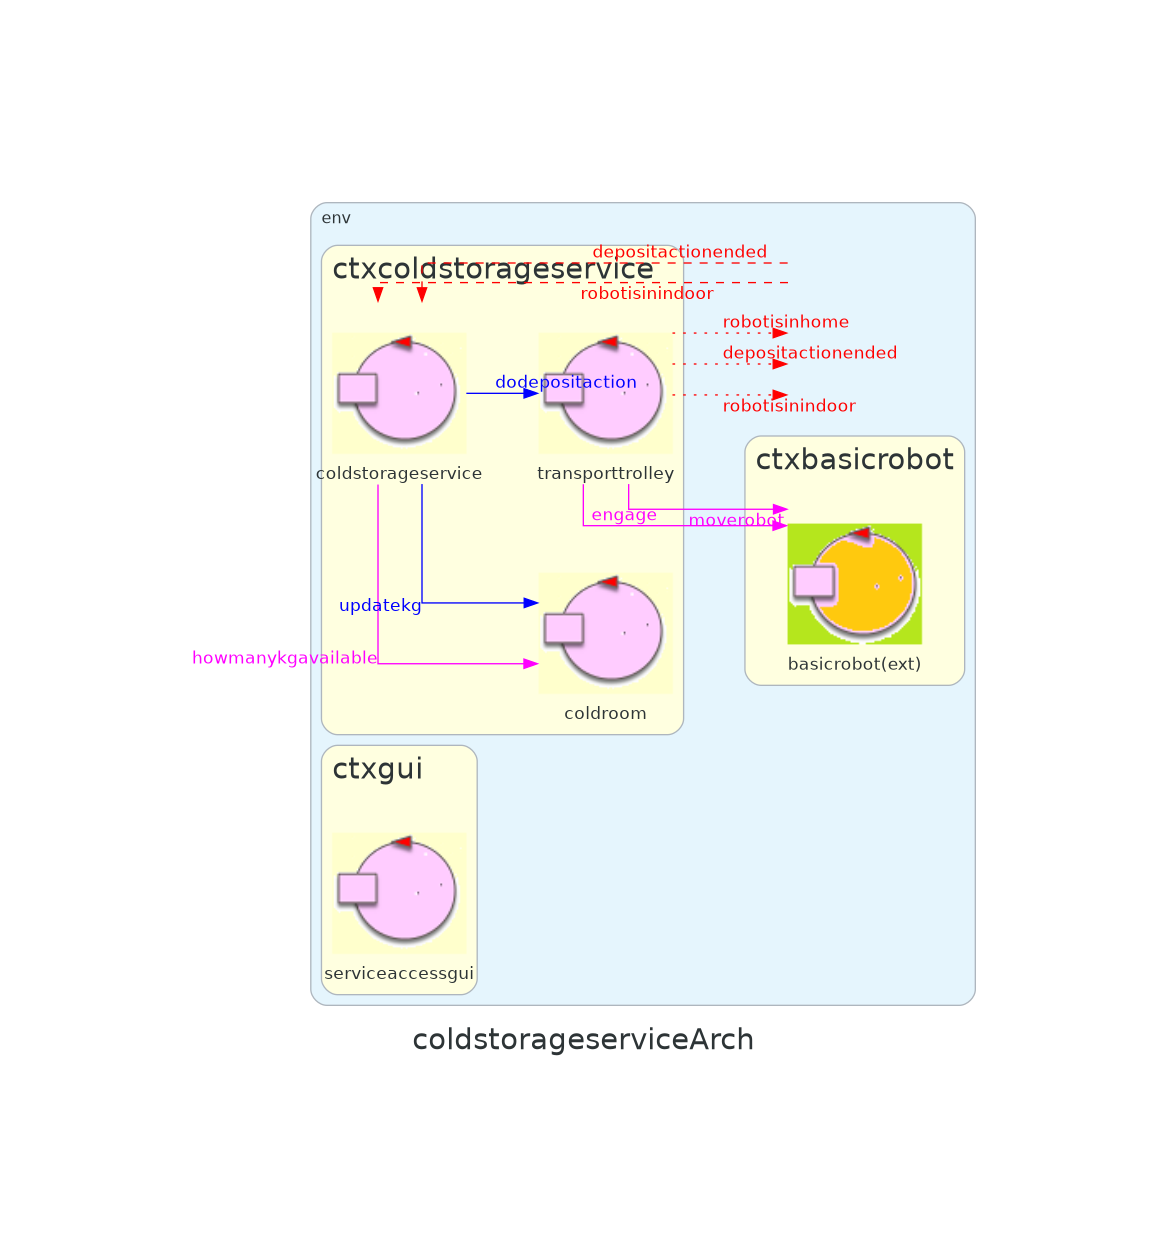
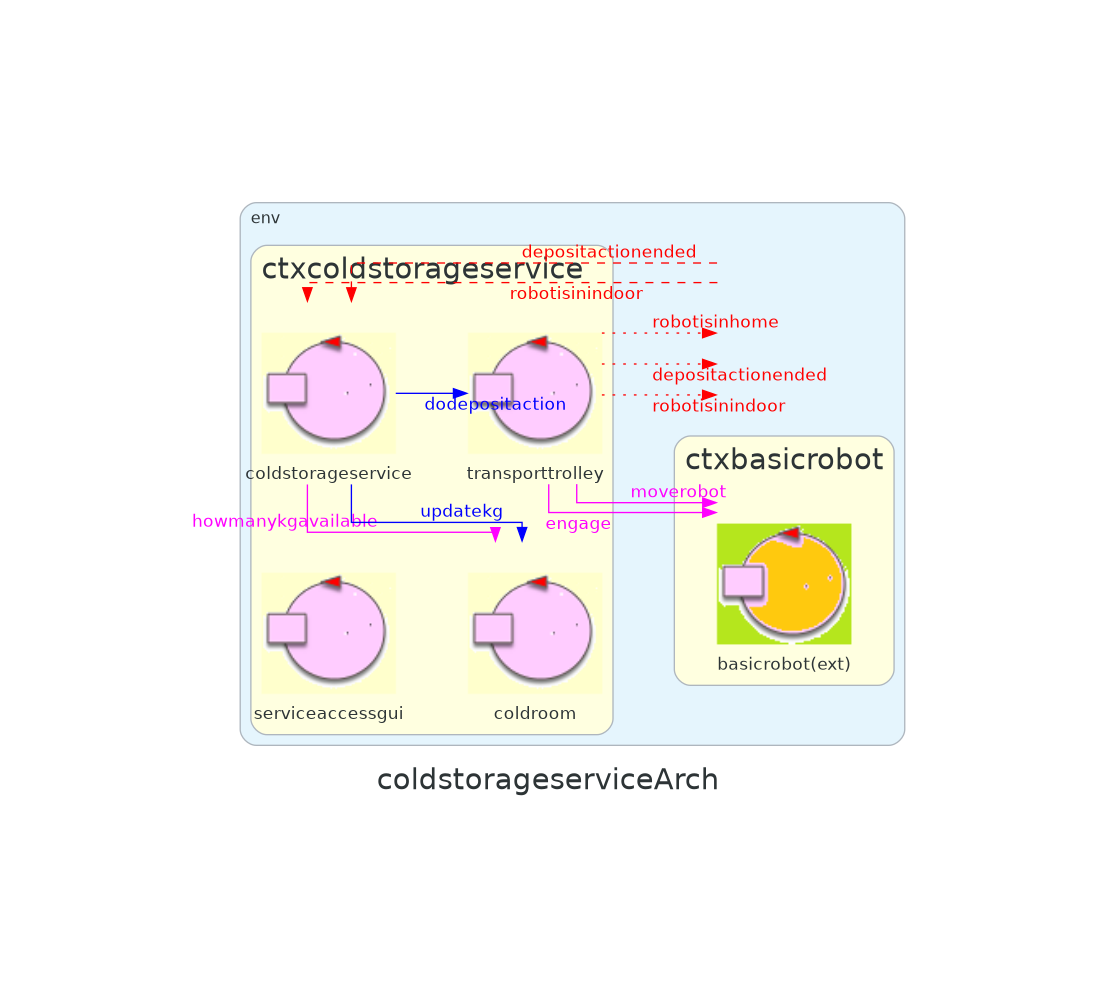
added sprint2V0

Changed region(s): [[0.155, 0.1559, 0.8368, 0.8421]]

diff --git a/userDocs/ColdStorageSprint2V0.md b/userDocs/ColdStorageSprint2V0.md
@@ -1,11 +1,11 @@
 
 ## Introduzione
 ### Goal conseguiti nello sprint1
-- prototipazione del core business ColdStorageService + TransportTrolley
+- sviluppo del core business ColdStorageService + TransportTrolley
 ### architettura logica sprint1
 ![[coldstorageservicearch-progettazione-sprint1.png]]
 ### Goal dello sprint2
-- introduzione della la GUI nel sistema ottenuto nello sprint1 e testing
+- introduzione della  GUI nel sistema ottenuto nello sprint1 e testing
 **Si noti che lo sviluppo del progetto dello sprint2 è da intendersi come estensione del progetto dello sprint1**
 
 ## Requirements
@@ -17,67 +17,75 @@ a ServiceAccessGUI that allows an human being to see the current weight of the m
 - When the service accepts a ticket, the transport trolley reaches the INDOOR, picks up the food, sends the charge taken message and then goes to the ColdRoom to store the food.
 - When the deposit action is terminated, the transport trolley accepts another ticket (if any) or returns to HOME.
 
+
+
 ## Requirements analysis
 
 - Per **current weight** si intende il numero di kg contenuti nella ColdRoom effettivi. Viene quindi formalizzato con un numero intero positivo.
 - Dal punto 1 della service user story, si evince che ci sarà un campo in input dove l'utente può inserire il numero di kg FW per richiedere il ticket.
-- Una volta che l'utente ha inserito il ticket number, non deve essere possibile per lui inserire un altro ticket prima che otttenga alcuna risposta dalla ServiceAccessGui
-- Deve essere possibile per l'utente poter richiedere più ticket anche se ha inserito il ticketruck driver mandando il camion con un altro ticket. Infatti, il camionista ddeve prima guidare il camion fino a indoor e poi può inserire il ticket number nella ServiceAccessGui e non potrebbe fisicamente guidare due camion in contemporanea.
+- Una volta che l'utente ha inserito il ticket number, non deve essere possibile per lui inserire un altro ticket prima che ottenga alcuna risposta dalla ServiceAccessGui
+- In qualunque momento deve essere possibile richiedere ticket.
 
 Dal precedente sprint si ricorda che:
-- Non deve succedere che un camion, ricevuto il proprio ticket si veda rifiutata l'operazione di scarico una volta arrivato in INDOOR.
+- Non deve succedere che un camion, ricevuto il proprio ticket si veda rifiutata l'operazione di scarico una volta arrivato in INDOOR a patto che il ticket non sia scaduto.
 - la richiesta di un ticket può avvenire mentre sono ancora in corso operazioni di scarico precedenti
-
-
-### Ticket
- Il ticket è stato formalizzato nello sprint1 secondo la seguente struttura
- ```java
-private String ticketSecret;  
-private long timestamp;  
-private int kgToStore;    
-``` 
  
-
-
 ## Problem Analysis
+
+### comunicazione con il sistema 
+da requisiti si prevede la comunicazione tramite i seguenti messaggi:
+- Request storefood : storefood( KG )
+- Reply ticketaccepted : ticketaccepted( TICKETCODE, TICKETSECRET, TIMESTAMP ) 
+- Reply ticketdenied : ticketdenied( ARG ) 
+
+- Request sendticket: sendticket(TICKETCODE, TICKETSECRET)
+- Reply chargetaken : chargetaken(ARG)
+- Reply ticketexpired: ticketexpired(ARG)
+- Reply ticketrejected: ticketrejected(ARG)
+
+### Il problema della disponibilità della GUI
+da requisiti si evince che la gui deve essere sempre disponibile ad accettare richieste, le comunicazioni intraprese devono essere di natura **NON BLOCCANTE**
+
+### Trasparenza della gui
+per il principio di clean architecture la GUI deve operare in maniera trasparente al sistema 
+
+### L'attore service ACCESSGUI
+come introdotto nella architettura dello sprint0 si aggiunge al sistema un attore in grado di comunicare con coldstorageservice.
+
+#### La scelta del contesto
+data l'assenza di particolari requisiti che richiedano di inserire la serviceaccessgui in un contesto diverso si decide di inserirla nello stesso contesto del sistema
 
 
 ## Architettura logica dopo analisi del problema
-Il sistema è composto da:
-  - *ColdStorageService*: prende in carico richieste di generazione ticket e richieste di invio di un camion; si interfaccia con la ColdRoom per saperne lo stato; fa partire le deposit action;
-  - *Transport Trolley*: invia al Basic Robot la sequenza di comandi necessari per effettuare una deposit action
-  - *Basic Robot*: esegue i comandi del Transport Trolley
-  - *ServiceAccessGui*: si interfaccia con ColdStorageService per la richiesa di ticket
-  - *Cold Room*: aggiorna lo stato della quantità di kg
+Al sistema precedente si aggiunge un attore  *ServiceAccessGui* che si interfaccia con ColdStorageService per la richiesa di ticket
 
-  ![[coldstorageservicearchsprint1.png]]
+  ![[coldstorageservicearch-analisi.png]]
 
-
-## Test plan
-si prevede di testare le seguenti funzionalità del sistema
-
-
-### Test effettuati in Junit
-creare un attore che funge da fake user e nel codice Kotlin inseriamo delle Assert
-- fake user manda il messaggio **storefood**, mi aspetto di ricevere il ticket
-- fake user inserisce il ticket e si aspetta un dispatch di chargetaken
-
-```Java
-
-
-```
-
-### realizzazione mediante eventi 
-per implementare i test si prevede di sfruttare la generazione degli eventi da parte del transport trolley e della cooldroom in modo da essere il meno invasivi possibile sul sistema.
 
 ## PROGETTAZIONE
 
-Tutto il codice della parte di progettazione è consultabile al seguente link [github](https://github.com/RootLeo00/robot-coldstorage/tree/main/sprint2)
-### l'attore GUIMOK 
-si prevede di aggiungere all'architettura logica predisposta in analisi del problema un attore **GUIMOK** per simulare il comportamento di un utente che interagisce con la main logic di sistema
+Tutto il codice della parte di progettazione è consultabile al seguente link [github](https://github.com/RootLeo00/robot-coldstorage/tree/sprint2)
+
+### L'alieno WEBGUI
+si decide di implementare un sistema alieno in grado di fornire una interfaccia web per consentire l'interazione utente, dopo una breve analisi dei tool disponibili si presentano le seguenti possibilità di implementazione:
+- **NODEJS** 
+- **SPRING**
+per rapidita di implementazione si decide di sviluppare un primo prototipo con NODEJS e il framework EXPRESS per andare alla ricerca di problemi di natura implementativa
+
+### Il problema delle chiamate bloccanti e della gestione della sessione 
+
+da requisiti si ha che la comunicazione del messaggio CHARGETAKEN deve essere una reply a una request precedentemente fatta dalla SERVICEACCESSGUI, da requisiti si ha che la gui deve essere sempre disponibile, questo porta a due soluzioni implementative:
+- #### chiamate bloccanti
+	- l'attore **SERVICEACCESSGUI**, ricevuta una richiesta da parte della **WEBGUI** esegue a sua volta la richiesta a **COLDSTORAGESERVICE** e si mette in attesa della risposta che poi fornirà alla **WEBGUI**
+	- questo approccio però non soddisfa il requisito che la **WEBGUI** sia sempre disponibile in quanto anche se la **WEBGUI** fosse in grado di inviare piu richieste alla **SERVICEACCESSGUI** questa **richiesta non sarebbe servita fino al termine del servizio delle richieste precedenti**
+- #### chiamate non bloccanti con gestione della sessione 
+	- in questa seconda versione dell'implementazione si ha che **SERVICEACCESSGUI** dopo aver inviato una richiesta a **COLDSTORAGESERVICE** non attende la risposta ma si mette in attesa di altre richieste
+	- questo porta un problema legato alla gestione della sessione in quanto **non si è piu in grado di determinare a quale richiesta fa riferimento una determinata risposta** quando questa giunge a **SERVICEACCESSGUI**
+
+di seguito si presenta l'architettura di progettazione realizzata per testare le problematiche sopra riportate
 
 ### Architettura finale progettazione
-![[coldstorageservicearchprogettazione.png]]
+![[coldstorageservicearch-progettazione.png]]
 
 
 <div style="background-color:rgba(86, 56, 253, 0.9); width:60%;text-align:left;color:white">
